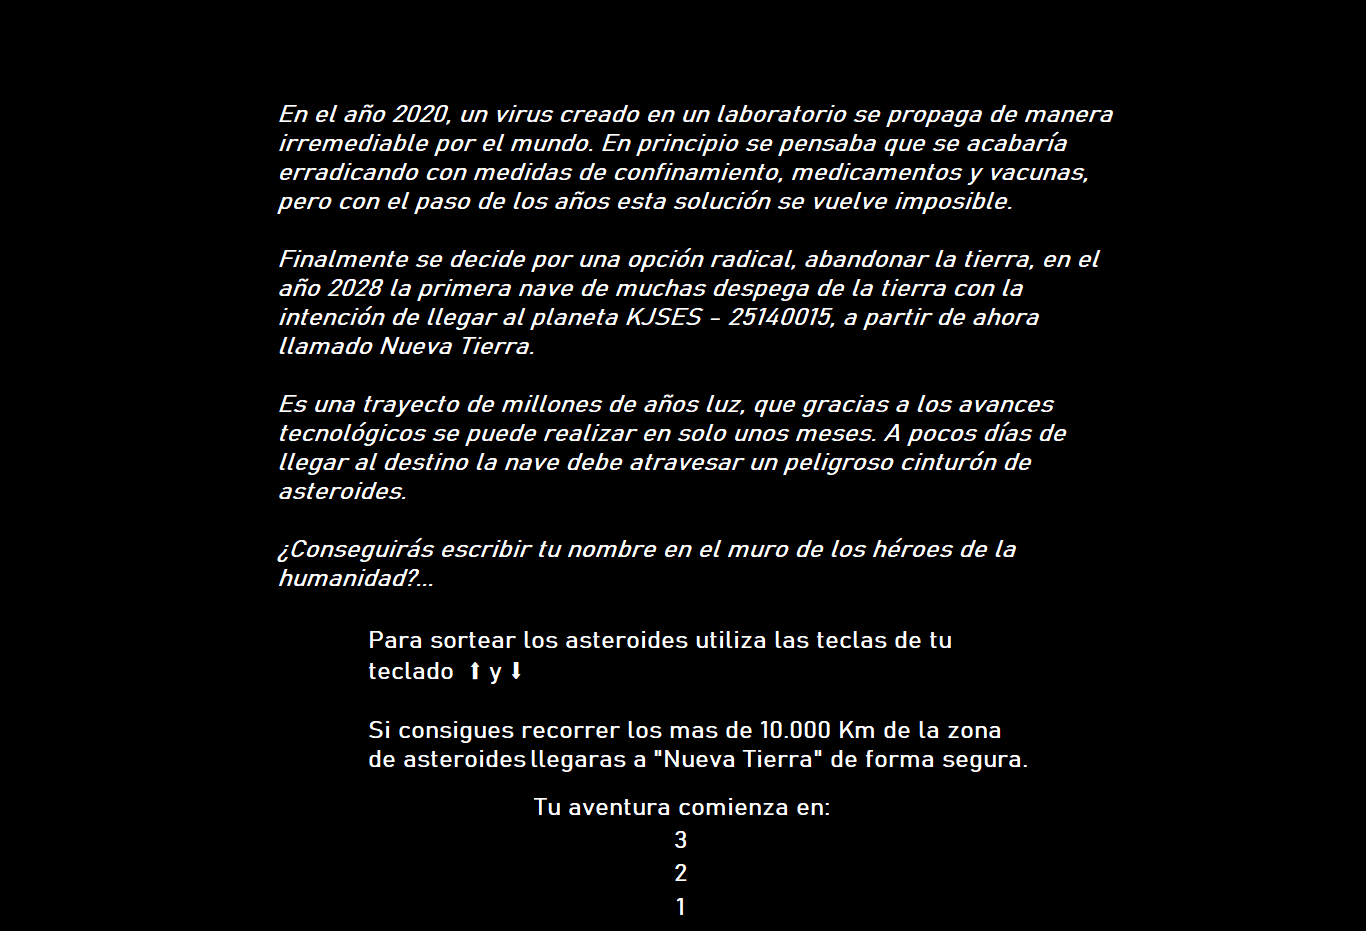
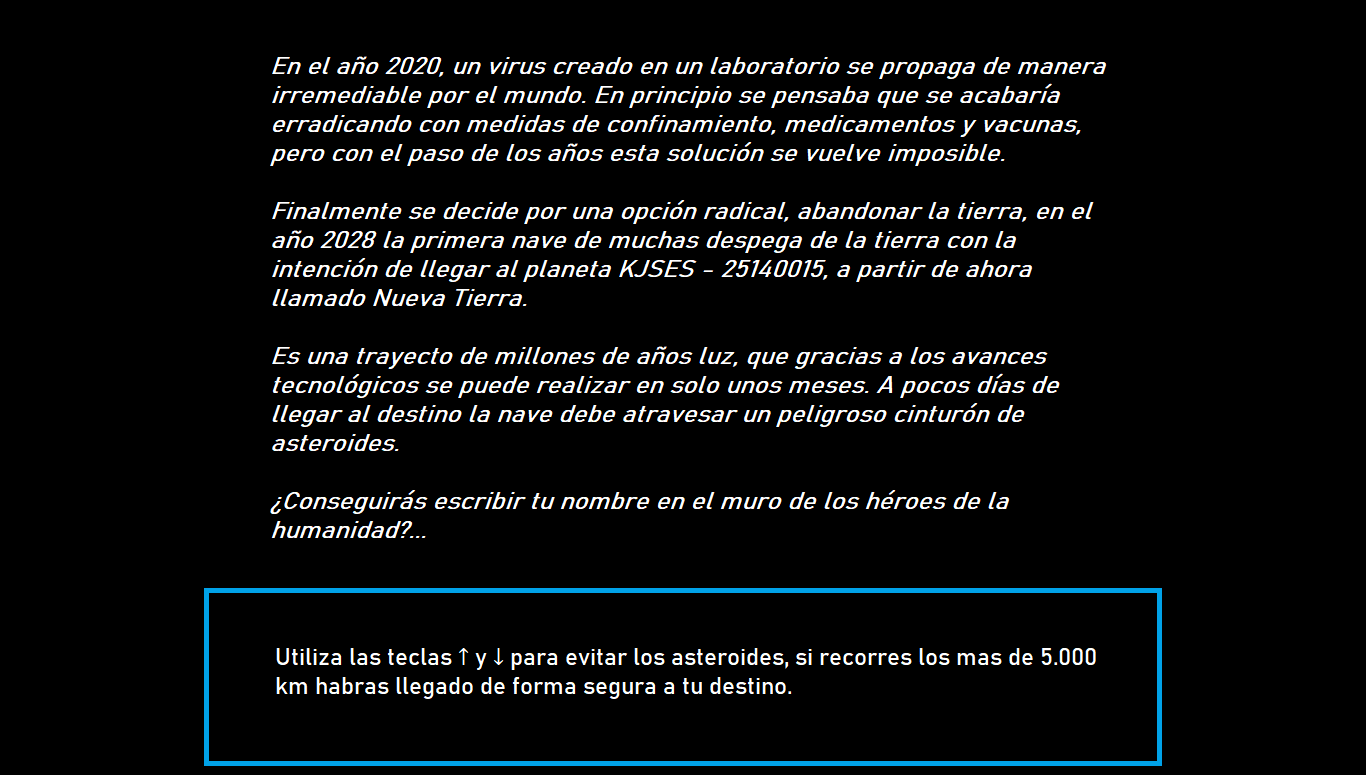
Primer final imcompleto

Changed region(s): [[0.123, 0.0619, 0.8609, 0.991]]

diff --git a/Escape_tierra/entidades.py b/Escape_tierra/entidades.py
@@ -15,10 +15,8 @@ class Inicio:
         self.y = y
         self.vx = vx
         self.vy = vy
+        self.inicar_juego = False
 
-        self.imagen = pg.image.load("recursos/imagenes/Inicio.jpg")
-
-    def pantalla_inicio(self):
         self.imagen = pg.image.load("recursos/imagenes/Inicio.jpg")
 
 class Pantalla_historia:
@@ -50,14 +48,38 @@ class Nave:
         self.vy = vy
 
         self.imagen = pg.image.load("recursos/imagenes/Normandy.png")
+        self.imagenes = ("Normandy.png","explosion00.png","explosion01.png","explosion02.png","explosion03.png","explosion04.png","explosion05.png","explosion06.png","explosion07.png","explosion08.png")
+        self.imagen_act = 0
 
-    def comprobar_colision (self, algo):
+    def colision (self, algo):
+
         if (self.y >= algo.y and self.y + 72 <= algo.y + 40 or \
             self.y + 72 >= algo.y and self.y <= algo.y + 40) and \
             self.x + 216 >= algo.x:
+            self.imagen_act +=1
+        if self.imagen_act >= len(self.imagenes):
+            self.imagen_act = 8
+        self.imagen = pg.image.load(f"recursos/imagenes/{self.imagenes[self.imagen_act]}")
 
-            self.imagen = pg.image.load("recursos/imagenes/explosion03.png")
-            return True
+    def colision_1 (self, algo_1):
+
+        if (self.y >= algo_1.y and self.y + 72 <= algo_1.y + 40 or \
+            self.y + 72 >= algo_1.y and self.y <= algo_1.y + 40) and \
+            self.x + 216 >= algo_1.x:
+            self.imagen_act +=1
+        if self.imagen_act >= len(self.imagenes):
+            self.imagen_act = 8
+        self.imagen = pg.image.load(f"recursos/imagenes/{self.imagenes[self.imagen_act]}")
+
+    def colision_2 (self, algo_2):
+
+        if (self.y >= algo_2.y and self.y + 72 <= algo_2.y + 40 or \
+            self.y + 72 >= algo_2.y and self.y <= algo_2.y + 40) and \
+            self.x + 216 >= algo_2.x:
+            self.imagen_act +=1
+        if self.imagen_act >= len(self.imagenes):
+            self.imagen_act = 8
+        self.imagen = pg.image.load(f"recursos/imagenes/{self.imagenes[self.imagen_act]}")
 
 class Fondo:
     def __init__(self, x, y, vx, vy):
@@ -77,11 +99,16 @@ class Game_over:
         self.y = y
         self.vx = vx
         self.vy = vy
+        self.imagen = pg.image.load("recursos/imagenes/Gameover.jpg")
 
-        self.imagen = pg.image.load("recursos/imagenes/Gameover.png")
+class Mision_Cumplida:
 
-    def game_over_final(self):
-        pg.image.load("recursos/imagenes/Gameover.png")
+    def __init__(self, x, y, vx, vy):
+        self.x = x
+        self.y = y
+        self.vx = vx
+        self.vy = vy
+        self.imagen = pg.image.load("recursos/imagenes/Mision_Cumplida.jpg")
 
 class Game:
     def __init__(self):
@@ -89,13 +116,16 @@ class Game:
         pg.display.set_caption("Escape de la tierra")
 
         self.inicio = Inicio(0, 0, 0, 0)
-        self.historia = Pantalla_historia(0, 931, 0, 50)
+        self.historia = Pantalla_historia(0, 768, 0, 15)
         self.fondo_estrellado = Fondo(0, 0, 0, 0)
-        self.asteroide = Asteroide(1366, random.randint(0, 768), -3, 0)
-        self.nave = Nave (0, 384, 0, 10)
+        self.asteroide = Asteroide(1366, random.randint(0, 768), -1, 0)
+        self.asteroide_1 = Asteroide(1366, random.randint(0, 768), -2, 0)
+        self.asteroide_2 = Asteroide(1366, random.randint(0, 768), -3, 0)
+        self.nave = Nave (-5, 384, 0, 10)
         self.marcador = pg.font.Font("recursos/fuente/OpenSans-Bold.ttf", 24)
-        self.acero = 0
         self.game_over = Game_over (0, 0, 0, 0)
+        self.mision_cumplida = Mision_Cumplida (0, 0, 0, 0)
+        self.acero = 0
         self.clock = pg.time.Clock()
 
     def bucle_pricipal(self):
@@ -122,50 +152,75 @@ class Game:
                     if event.key == pg.K_DOWN:
                         self.nave.y += 25
                         if self.nave.y + 72 >= 768:
-                            self.nave.y = 768 - 72 
+                            self.nave.y = 768 - 72
 
-                if event.type == pg.K_SPACE:
+                if event.type == pg.KEYUP: 
                     if event.key == pg.K_SPACE:
-                        self.has_pulsado = True
+                        self.inicio.inicar_juego = True
 
 # Insertamos los objetos
 
-#            self.pantalla.blit(self.inicio.imagen, (self.inicio.x, self.inicio.y))
+            if self.inicio.inicar_juego == False:
+                self.pantalla.blit(self.inicio.imagen, (self.inicio.x, self.inicio.y))
+            else:
+                self.pantalla.blit(self.historia.imagen, (self.historia.x, self.historia.y))
+                self.historia.y -= self.historia.vy
+                if self.historia.y + 775 <= self.historia.x:
 
-            self.pantalla.blit(self.historia.imagen, (self.historia.x, self.historia.y))
-            self.historia.y -= self.historia.vy
+#Juengo principal#
 
-            self.inicio.pantalla_inicio()
+                    self.pantalla.blit(self.fondo_estrellado.imagen, (self.fondo_estrellado.x, self.fondo_estrellado.y))
 
-            if self.historia.y + 931 <= self.historia.x:
+                    self.pantalla.blit(self.asteroide.imagen, (self.asteroide.x, self.asteroide.y))
+                    self.asteroide.x += self.asteroide.vx
+                    if self.asteroide.x < -50:
+                        self.asteroide = Asteroide(1366, random.randint(0, 768), 0, 0)
+                    self.asteroide.vx = self.asteroide.vx -0.05
 
-                self.pantalla.blit(self.fondo_estrellado.imagen, (self.fondo_estrellado.x, self.fondo_estrellado.y))
+                    self.pantalla.blit(self.asteroide_1.imagen, (self.asteroide_1.x, self.asteroide_1.y))
+                    self.asteroide_1.x += self.asteroide_1.vx
+                    if self.asteroide_1.x < -50:
+                        self.asteroide_1 = Asteroide(1366, random.randint(0, 768), 0, 0)
+                    self.asteroide_1.vx = self.asteroide_1.vx -0.10
 
-                self.pantalla.blit(self.asteroide.imagen, (self.asteroide.x, self.asteroide.y))
-                self.asteroide.x += self.asteroide.vx
+                    self.pantalla.blit(self.asteroide_2.imagen, (self.asteroide_2.x, self.asteroide_2.y))
+                    self.asteroide_2.x += self.asteroide_2.vx
+                    if self.asteroide_2.x < -50:
+                        self.asteroide_2 = Asteroide(1366, random.randint(0, 768), 0, 0)
+                    self.asteroide_2.vx = self.asteroide_2.vx -0.15
 
-                self.pantalla.blit(self.nave.imagen, (self.nave.x, self.nave.y))
+                    self.pantalla.blit(self.nave.imagen, (self.nave.x, self.nave.y))
 
-                puntuacion = self.marcador.render(str(self.acero), True, (255,255,255))
-                self.pantalla.blit(puntuacion, (10, 10))
+                    puntuacion = self.marcador.render(str(self.acero), True, (255,255,255))
+                    self.pantalla.blit(puntuacion, (10, 10))
+                    self.acero = self.acero +1
 
-#Funcionalidades
+#Juengo principal#
 
-            self.nave.comprobar_colision(self.asteroide)
+            self.nave.colision(self.asteroide)
+            self.nave.colision_1(self.asteroide_1)
+            self.nave.colision_2(self.asteroide_2)
 
-            if self.nave.comprobar_colision(self.asteroide): 
-                self.pantalla.blit(self.game_over.imagen, (self.game_over.x, self.game_over.y))
+#aninmacion destruccion y patalla game over y animacion de victoria y pantalla sql
 
-            if self.asteroide.x < -50:
-                self.asteroide = Asteroide(1366, random.randint(0, 768), 0, 0)
-            self.asteroide.vx = self.asteroide.vx -0.25
-            self.acero = self.acero +1
+# A partir de aqui metido a capon quizas haya que descostruir
+
 
             if self.acero >= 1000:
                 self.acero = 1000
-                self.nave.x += self.nave.vx +5
-            elif self.nave.x >= 1366:
-                self.pantalla.blit(self.game_over.imagen, (self.game_over.x, self.game_over.y))
+                self.nave.x += self.nave.vx +3
+                self.asteroide.vx = 0
+                self.asteroide.x = 2500
+                self.asteroide_1.vx = 0
+                self.asteroide_1.x = 2500
+                self.asteroide_2.vx = 0
+                self.asteroide_2.x = 2500
+
+            if self.nave.x >= 1366:
+                self.pantalla.blit(self.mision_cumplida.imagen, (self.mision_cumplida.x, self.mision_cumplida.y))
+
+
+
 
 
 # Refrescamos 

diff --git a/readme.md b/readme.md
@@ -1,3 +1,18 @@
 # Para poder ejecurtarlo es necesario:
 
-1.- Instalar los requeriments
+1. Abre tu Visual Studio Code
+
+2. Crea una carpeta donde deseas que se decargue el juego.
+
+3. Cuando estres en ese carpeta, selecciona en las opciones de Visual Code "Termina" y "New Terminal"
+
+4. Pega el siguiente comando en el Terminal "$ git clone https://github.com/Dbarrio-dev/Escape_Tierra.git"
+
+5. Crea un entorno vitrual en el Terminal con el siguiente parametro "python -m venv venv" en el caso de Windows  o "" en el caso de Mac
+
+6. Abre el entorno virual con el siguiente paramentro "venv\Scripts\activate" en el caso de Windows  o "" en el caso de Mac
+
+7. Introduce en el terminal "pip freeze >requerimetns.txt" para las instalaciones necesarias que necesita el juego
+
+8. Por ultimo, para Iniciar el juego escribe en el terminal "python main.py" 
+
